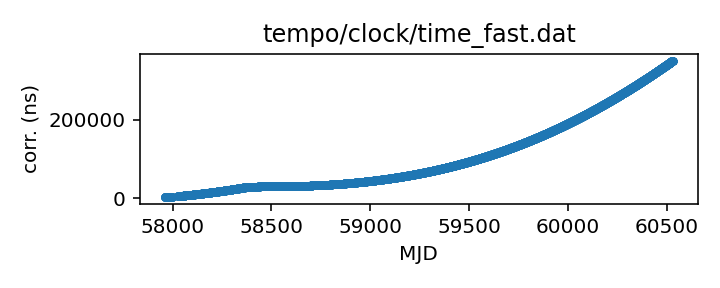
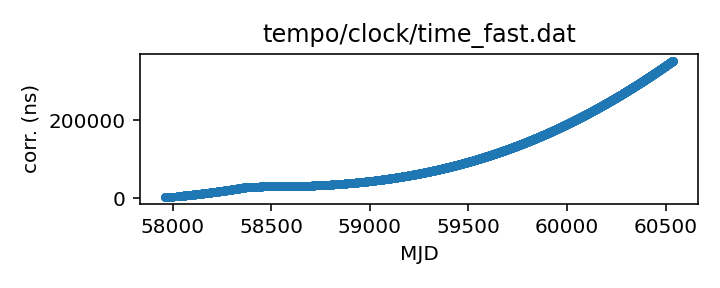
Routine gh-pages update from Github action Fri Aug 16 20:31:29 UTC 2024

diff --git a/status.md b/status.md
@@ -13,18 +13,18 @@ name of each clock file links to a page with more details.
 
 | Name | File | Corrections start | Corrections end | Last check date | Last check result 
 |:--- |:--- | --- | --- | --- |:--- 
-| [GPS to UTC](T2runtime/clock/gps2utc.clk.html) | `T2runtime/clock/gps2utc.clk` | 1993-01-01 MJD 48988.0 | 2024-04-29 MJD 60429.0 | 2024-08-15 | Unchanged 
-| [GPS to UTC (Combined Clock)](T2runtime/clock/gps2utc_cc.clk.html) | `T2runtime/clock/gps2utc_cc.clk` | 1993-01-01 MJD 48988.0 | 2024-04-29 MJD 60429.0 | 2024-08-15 | Unchanged 
-| [GPS to UTC (Corrected)](T2runtime/clock/gps2utc_c0p.clk.html) | `T2runtime/clock/gps2utc_c0p.clk` | 2010-12-29 MJD 55559.0 | 2024-04-29 MJD 60429.0 | 2024-08-15 | Unchanged 
-| [GBT](tempo/clock/time_gbt.dat.html) | `tempo/clock/time_gbt.dat` | 2000-12-31 MJD 51909.5 | 2024-05-18 MJD 60448.5 | 2024-08-15 | **Validation failed** 
+| [GPS to UTC](T2runtime/clock/gps2utc.clk.html) | `T2runtime/clock/gps2utc.clk` | 1993-01-01 MJD 48988.0 | 2024-04-29 MJD 60429.0 | 2024-08-16 | Unchanged 
+| [GPS to UTC (Combined Clock)](T2runtime/clock/gps2utc_cc.clk.html) | `T2runtime/clock/gps2utc_cc.clk` | 1993-01-01 MJD 48988.0 | 2024-04-29 MJD 60429.0 | 2024-08-16 | Unchanged 
+| [GPS to UTC (Corrected)](T2runtime/clock/gps2utc_c0p.clk.html) | `T2runtime/clock/gps2utc_c0p.clk` | 2010-12-29 MJD 55559.0 | 2024-04-29 MJD 60429.0 | 2024-08-16 | Unchanged 
+| [GBT](tempo/clock/time_gbt.dat.html) | `tempo/clock/time_gbt.dat` | 2000-12-31 MJD 51909.5 | 2024-05-18 MJD 60448.5 | 2024-08-16 | **Validation failed** 
 | [GBT (TEMPO2 converted from TEMPO)](T2runtime/clock/gbt2gps.clk.html) | `T2runtime/clock/gbt2gps.clk` | 2000-12-31 MJD 51909.5 | 2024-05-18 MJD 60448.5 | 2024-05-19 | Updated 
-| [Jodrell Bank](T2runtime/clock/jb2gps.clk.html) | `T2runtime/clock/jb2gps.clk` | 2006-10-13 MJD 54021.4 | 2023-12-04 MJD 60282.0 | 2024-08-09 | Unchanged 
-| [Jodrell Bank Roach](T2runtime/clock/jbroach2jb.clk.html) | `T2runtime/clock/jbroach2jb.clk` | 2006-10-13 MJD 54021.4 | 2018-03-20 MJD 58197.6 | 2024-08-09 | Unchanged 
-| [Jodrell Bank DFB](T2runtime/clock/jbdfb2jb.clk.html) | `T2runtime/clock/jbdfb2jb.clk` | 2006-10-13 MJD 54021.4 | 2017-05-11 MJD 57884.0 | 2024-08-09 | Unchanged 
-| [Meerkat (observatory)](T2runtime/clock/mk2utc_observatory.clk.html) | `T2runtime/clock/mk2utc_observatory.clk` | 2019-01-01 MJD 58484.0 | 2024-04-24 MJD 60425.0 | 2024-08-09 | **Failed to download** 
-| [Leap seconds](tempo/clock/leap.sec.html) | `tempo/clock/leap.sec` | 1972-07-01 MJD 41499.0 | 2017-01-01 MJD 57754.0 | 2024-08-15 | Unchanged 
-| [UT1 table](tempo/clock/ut1.dat.html) | `tempo/clock/ut1.dat` | 1973-01-02 MJD 41684.0 | 2025-08-23 MJD 60910.0 | 2024-08-15 | Updated 
-| [UT1 table](T2runtime/clock/ut1.dat.html) | `T2runtime/clock/ut1.dat` | 1973-01-02 MJD 41684.0 | 2025-08-23 MJD 60910.0 | 2024-08-15 | Updated 
+| [Jodrell Bank](T2runtime/clock/jb2gps.clk.html) | `T2runtime/clock/jb2gps.clk` | 2006-10-13 MJD 54021.4 | 2023-12-04 MJD 60282.0 | 2024-08-16 | Unchanged 
+| [Jodrell Bank Roach](T2runtime/clock/jbroach2jb.clk.html) | `T2runtime/clock/jbroach2jb.clk` | 2006-10-13 MJD 54021.4 | 2018-03-20 MJD 58197.6 | 2024-08-16 | Unchanged 
+| [Jodrell Bank DFB](T2runtime/clock/jbdfb2jb.clk.html) | `T2runtime/clock/jbdfb2jb.clk` | 2006-10-13 MJD 54021.4 | 2017-05-11 MJD 57884.0 | 2024-08-16 | Unchanged 
+| [Meerkat (observatory)](T2runtime/clock/mk2utc_observatory.clk.html) | `T2runtime/clock/mk2utc_observatory.clk` | 2019-01-01 MJD 58484.0 | 2024-04-24 MJD 60425.0 | 2024-08-16 | **Failed to download** 
+| [Leap seconds](tempo/clock/leap.sec.html) | `tempo/clock/leap.sec` | 1972-07-01 MJD 41499.0 | 2017-01-01 MJD 57754.0 | 2024-08-16 | Unchanged 
+| [UT1 table](tempo/clock/ut1.dat.html) | `tempo/clock/ut1.dat` | 1973-01-02 MJD 41684.0 | 2025-08-23 MJD 60910.0 | 2024-08-16 | Unchanged 
+| [UT1 table](T2runtime/clock/ut1.dat.html) | `T2runtime/clock/ut1.dat` | 1973-01-02 MJD 41684.0 | 2025-08-23 MJD 60910.0 | 2024-08-16 | Unchanged 
 
 
 
@@ -67,26 +67,26 @@ name of each clock file links to a page with more details.
 
 | Name | File | Corrections start | Corrections end | Last check date | Last check result 
 |:--- |:--- | --- | --- | --- |:--- 
-| [GPS to UTC (TEMPO2)](T2runtime/clock/gps2utc_tempo2.clk.html) | `T2runtime/clock/gps2utc_tempo2.clk` | 1996-03-27 MJD 50169.0 | 2022-10-27 MJD 59879.0 | 2024-08-09 | **Failed to download** 
-| [GBT (TEMPO2)](T2runtime/clock/gbt2gps_tempo2.clk.html) | `T2runtime/clock/gbt2gps_tempo2.clk` | 2000-12-31 MJD 51909.5 | 2020-02-25 MJD 58904.5 | 2024-08-09 | Unchanged 
-| [Jodrell Bank (TEMPO)](tempo/clock/time_jb.dat.html) | `tempo/clock/time_jb.dat` | 2006-10-13 MJD 54021.4 | 2019-05-13 MJD 58616.2 | 2024-08-09 | Unchanged 
-| [VLA](tempo/clock/time_vla.dat.html) | `tempo/clock/time_vla.dat` | 1990-10-27 MJD 48191.2 | 2021-03-07 MJD 59280.5 | 2024-08-09 | Unchanged 
-| [VLA (TEMPO2)](T2runtime/clock/vla2gps.clk.html) | `T2runtime/clock/vla2gps.clk` | 2015-02-01 MJD 57054.6 | 2021-03-07 MJD 59280.5 | 2024-08-09 | Unchanged 
-| [VLA to NIST](T2runtime/clock/vla2nist.clk.html) | `T2runtime/clock/vla2nist.clk` | 1990-10-27 MJD 48191.2 | 1993-11-13 MJD 49304.0 | 2024-08-09 | Unchanged 
-| [FAST](tempo/clock/time_fast.dat.html) | `tempo/clock/time_fast.dat` | 2017-07-27 MJD 57961.0 | 2024-08-07 MJD 60530.0 | 2024-08-09 | Updated 
-| [WSRT](T2runtime/clock/wsrt2gps.clk.html) | `T2runtime/clock/wsrt2gps.clk` | 1999-01-01 MJD 51179.5 | 2015-06-29 MJD 57202.1 | 2024-08-09 | Unchanged 
-| [WSRT (TEMPO)](tempo/clock/time_wsrt.dat.html) | `tempo/clock/time_wsrt.dat` | 1987-07-24 MJD 47000.0 | 2007-12-24 MJD 54458.0 | 2024-08-09 | **Validation failed** 
-| [Parkes](T2runtime/clock/pks2gps.clk.html) | `T2runtime/clock/pks2gps.clk` | 1858-11-17 MJD 0.0 | 2024-07-31 MJD 60522.1 | 2024-08-09 | Updated 
-| [Parkes (TEMPO)](tempo/clock/time_pks.dat.html) | `tempo/clock/time_pks.dat` | 1979-05-07 MJD 44000.0 | 2011-07-03 MJD 55745.8 | 2024-08-09 | **Validation failed** 
-| [SRT](T2runtime/clock/srt2gps.clk.html) | `T2runtime/clock/srt2gps.clk` | 2013-03-20 MJD 56371.0 | 2019-12-11 MJD 58828.0 | 2024-08-09 | Unchanged 
-| [Effelsberg](T2runtime/clock/eff2gps.clk.html) | `T2runtime/clock/eff2gps.clk` | 1993-11-29 MJD 49320.0 | 2015-06-22 MJD 57195.5 | 2024-08-09 | Unchanged 
-| [Effelsberg Asterix/PSRix](T2runtime/clock/effix2gps.clk.html) | `T2runtime/clock/effix2gps.clk` | 2011-01-01 MJD 55562.5 | 2021-03-21 MJD 59294.5 | 2024-08-09 | Unchanged 
-| [LEAP](T2runtime/clock/leap2effix.clk.html) | `T2runtime/clock/leap2effix.clk` | 2012-10-29 MJD 56230.0 | 2014-03-04 MJD 56720.0 | 2024-08-09 | Unchanged 
-| [NUPPI](tempo/clock/time_nuppi.dat.html) | `tempo/clock/time_nuppi.dat` | 2005-03-07 MJD 53436.0 | 2015-11-08 MJD 57334.6 | 2024-08-09 | Unchanged 
-| [Meerkat (TEMPO2)](T2runtime/clock/mk2utc.clk.html) | `T2runtime/clock/mk2utc.clk` | 2019-01-01 MJD 58484.0 | 2023-10-18 MJD 60235.9 | 2024-08-09 | Unchanged 
-| [MOST](T2runtime/clock/mo2gps.clk.html) | `T2runtime/clock/mo2gps.clk` | 2003-12-27 MJD 53000.0 | 2018-09-06 MJD 58367.0 | 2024-08-09 | Unchanged 
-| [Nancay to obspm](T2runtime/clock/ncyobs2obspm.clk.html) | `T2runtime/clock/ncyobs2obspm.clk` | 1988-05-18 MJD 47299.6 | 2023-10-27 MJD 60244.0 | 2024-08-09 | Unchanged 
-| [obspm](T2runtime/clock/obspm2gps.clk.html) | `T2runtime/clock/obspm2gps.clk` | 2003-12-01 MJD 52974.0 | 2023-10-27 MJD 60244.0 | 2024-08-09 | Unchanged 
+| [GPS to UTC (TEMPO2)](T2runtime/clock/gps2utc_tempo2.clk.html) | `T2runtime/clock/gps2utc_tempo2.clk` | 1996-03-27 MJD 50169.0 | 2022-10-27 MJD 59879.0 | 2024-08-16 | **Failed to download** 
+| [GBT (TEMPO2)](T2runtime/clock/gbt2gps_tempo2.clk.html) | `T2runtime/clock/gbt2gps_tempo2.clk` | 2000-12-31 MJD 51909.5 | 2020-02-25 MJD 58904.5 | 2024-08-16 | Unchanged 
+| [Jodrell Bank (TEMPO)](tempo/clock/time_jb.dat.html) | `tempo/clock/time_jb.dat` | 2006-10-13 MJD 54021.4 | 2019-05-13 MJD 58616.2 | 2024-08-16 | Unchanged 
+| [VLA](tempo/clock/time_vla.dat.html) | `tempo/clock/time_vla.dat` | 1990-10-27 MJD 48191.2 | 2021-03-07 MJD 59280.5 | 2024-08-16 | Unchanged 
+| [VLA (TEMPO2)](T2runtime/clock/vla2gps.clk.html) | `T2runtime/clock/vla2gps.clk` | 2015-02-01 MJD 57054.6 | 2021-03-07 MJD 59280.5 | 2024-08-16 | Unchanged 
+| [VLA to NIST](T2runtime/clock/vla2nist.clk.html) | `T2runtime/clock/vla2nist.clk` | 1990-10-27 MJD 48191.2 | 1993-11-13 MJD 49304.0 | 2024-08-16 | Unchanged 
+| [FAST](tempo/clock/time_fast.dat.html) | `tempo/clock/time_fast.dat` | 2017-07-27 MJD 57961.0 | 2024-08-14 MJD 60537.0 | 2024-08-16 | Updated 
+| [WSRT](T2runtime/clock/wsrt2gps.clk.html) | `T2runtime/clock/wsrt2gps.clk` | 1999-01-01 MJD 51179.5 | 2015-06-29 MJD 57202.1 | 2024-08-16 | Unchanged 
+| [WSRT (TEMPO)](tempo/clock/time_wsrt.dat.html) | `tempo/clock/time_wsrt.dat` | 1987-07-24 MJD 47000.0 | 2007-12-24 MJD 54458.0 | 2024-08-16 | **Validation failed** 
+| [Parkes](T2runtime/clock/pks2gps.clk.html) | `T2runtime/clock/pks2gps.clk` | 1858-11-17 MJD 0.0 | 2024-07-31 MJD 60522.1 | 2024-08-16 | Unchanged 
+| [Parkes (TEMPO)](tempo/clock/time_pks.dat.html) | `tempo/clock/time_pks.dat` | 1979-05-07 MJD 44000.0 | 2011-07-03 MJD 55745.8 | 2024-08-16 | **Validation failed** 
+| [SRT](T2runtime/clock/srt2gps.clk.html) | `T2runtime/clock/srt2gps.clk` | 2013-03-20 MJD 56371.0 | 2019-12-11 MJD 58828.0 | 2024-08-16 | Unchanged 
+| [Effelsberg](T2runtime/clock/eff2gps.clk.html) | `T2runtime/clock/eff2gps.clk` | 1993-11-29 MJD 49320.0 | 2015-06-22 MJD 57195.5 | 2024-08-16 | Unchanged 
+| [Effelsberg Asterix/PSRix](T2runtime/clock/effix2gps.clk.html) | `T2runtime/clock/effix2gps.clk` | 2011-01-01 MJD 55562.5 | 2021-03-21 MJD 59294.5 | 2024-08-16 | Unchanged 
+| [LEAP](T2runtime/clock/leap2effix.clk.html) | `T2runtime/clock/leap2effix.clk` | 2012-10-29 MJD 56230.0 | 2014-03-04 MJD 56720.0 | 2024-08-16 | Unchanged 
+| [NUPPI](tempo/clock/time_nuppi.dat.html) | `tempo/clock/time_nuppi.dat` | 2005-03-07 MJD 53436.0 | 2015-11-08 MJD 57334.6 | 2024-08-16 | Unchanged 
+| [Meerkat (TEMPO2)](T2runtime/clock/mk2utc.clk.html) | `T2runtime/clock/mk2utc.clk` | 2019-01-01 MJD 58484.0 | 2023-10-18 MJD 60235.9 | 2024-08-16 | Unchanged 
+| [MOST](T2runtime/clock/mo2gps.clk.html) | `T2runtime/clock/mo2gps.clk` | 2003-12-27 MJD 53000.0 | 2018-09-06 MJD 58367.0 | 2024-08-16 | Unchanged 
+| [Nancay to obspm](T2runtime/clock/ncyobs2obspm.clk.html) | `T2runtime/clock/ncyobs2obspm.clk` | 1988-05-18 MJD 47299.6 | 2023-10-27 MJD 60244.0 | 2024-08-16 | Unchanged 
+| [obspm](T2runtime/clock/obspm2gps.clk.html) | `T2runtime/clock/obspm2gps.clk` | 2003-12-01 MJD 52974.0 | 2023-10-27 MJD 60244.0 | 2024-08-16 | Unchanged 
 
 
 ### Further information:

diff --git a/tempo/clock/time_pks.dat.md b/tempo/clock/time_pks.dat.md
@@ -20,12 +20,11 @@ telescopes in the same file, distinguished only by observatory code.
 | Clock file start | 1979-05-07 MJD 44000.0 |
 | Clock file end | 2011-07-03 MJD 55745.8 |
 | Update interval (days) | 7 |
-| Last update attempt | 2024-08-09 |
+| Last update attempt | 2024-08-16 |
 | Last update result | Validation failed |
 
 Log entries from the last few update attempts:
 ```
-2024-06-07 20:29:32.720 - Validation failed: Unable to read new version of tempo/clock/time_pks.dat: Clock file /tmp/astropy-download-1810-bf_kz8b_ appears to be out of order: 49959.0 > 49958.0
 2024-06-14 20:29:51.890 - Validation failed: Unable to read new version of tempo/clock/time_pks.dat: Clock file /tmp/astropy-download-1801-tisulijr appears to be out of order: 49959.0 > 49958.0
 2024-06-21 20:29:55.211 - Validation failed: Unable to read new version of tempo/clock/time_pks.dat: Clock file /tmp/astropy-download-1818-a0_m0tm6 appears to be out of order: 49959.0 > 49958.0
 2024-06-28 20:29:43.204 - Validation failed: Unable to read new version of tempo/clock/time_pks.dat: Clock file /tmp/astropy-download-1891-89y18t2_ appears to be out of order: 49959.0 > 49958.0
@@ -35,6 +34,7 @@ Log entries from the last few update attempts:
 2024-07-26 20:31:11.561 - Validation failed: Unable to read new version of tempo/clock/time_pks.dat: Clock file /tmp/astropy-download-1771-ynhf0azv appears to be out of order: 49959.0 > 49958.0
 2024-08-02 20:31:15.123 - Validation failed: Unable to read new version of tempo/clock/time_pks.dat: Clock file /tmp/astropy-download-1884-prw9g2tg appears to be out of order: 49959.0 > 49958.0
 2024-08-09 20:31:11.284 - Validation failed: Unable to read new version of tempo/clock/time_pks.dat: Clock file /tmp/astropy-download-1813-swwbjeka appears to be out of order: 49959.0 > 49958.0
+2024-08-16 20:31:04.370 - Validation failed: Unable to read new version of tempo/clock/time_pks.dat: Clock file /tmp/astropy-download-1819-bg24jb3b appears to be out of order: 49959.0 > 49958.0
 ```
 [Full log](https://raw.githubusercontent.com/ipta/pulsar-clock-corrections/main/log/tempo/clock/time_pks.dat.log)
 

diff --git a/tempo/clock/time_wsrt.dat.md b/tempo/clock/time_wsrt.dat.md
@@ -20,12 +20,11 @@ should be the same information.
 | Clock file start | 1987-07-24 MJD 47000.0 |
 | Clock file end | 2007-12-24 MJD 54458.0 |
 | Update interval (days) | 7 |
-| Last update attempt | 2024-08-09 |
+| Last update attempt | 2024-08-16 |
 | Last update result | Validation failed |
 
 Log entries from the last few update attempts:
 ```
-2024-06-07 20:29:27.848 - Validation failed: Unable to read new version of tempo/clock/time_wsrt.dat: Clock file /tmp/astropy-download-1810-vr839f9d appears to be out of order: 53000.05 > 53000.0
 2024-06-14 20:29:48.546 - Validation failed: Unable to read new version of tempo/clock/time_wsrt.dat: Clock file /tmp/astropy-download-1801-gxdcwqox appears to be out of order: 53000.05 > 53000.0
 2024-06-21 20:29:50.513 - Validation failed: Unable to read new version of tempo/clock/time_wsrt.dat: Clock file /tmp/astropy-download-1818-gztup1ud appears to be out of order: 53000.05 > 53000.0
 2024-06-28 20:29:38.470 - Validation failed: Unable to read new version of tempo/clock/time_wsrt.dat: Clock file /tmp/astropy-download-1891-katqx_gz appears to be out of order: 53000.05 > 53000.0
@@ -35,6 +34,7 @@ Log entries from the last few update attempts:
 2024-07-26 20:31:07.591 - Validation failed: Unable to read new version of tempo/clock/time_wsrt.dat: Clock file /tmp/astropy-download-1771-gsrg9qrm appears to be out of order: 53000.05 > 53000.0
 2024-08-02 20:31:12.075 - Validation failed: Unable to read new version of tempo/clock/time_wsrt.dat: Clock file /tmp/astropy-download-1884-lk6lifwj appears to be out of order: 53000.05 > 53000.0
 2024-08-09 20:31:02.876 - Validation failed: Unable to read new version of tempo/clock/time_wsrt.dat: Clock file /tmp/astropy-download-1813-0v7eqv0r appears to be out of order: 53000.05 > 53000.0
+2024-08-16 20:30:59.758 - Validation failed: Unable to read new version of tempo/clock/time_wsrt.dat: Clock file /tmp/astropy-download-1819-rydxnzal appears to be out of order: 53000.05 > 53000.0
 ```
 [Full log](https://raw.githubusercontent.com/ipta/pulsar-clock-corrections/main/log/tempo/clock/time_wsrt.dat.log)
 

diff --git a/tempo/clock/time_gbt.dat.md b/tempo/clock/time_gbt.dat.md
@@ -33,12 +33,11 @@ If questions arise, contact Ryan S. Lynch <rlynch@nrao.edu>.
 | Clock file start | 2000-12-31 MJD 51909.5 |
 | Clock file end | 2024-05-18 MJD 60448.5 |
 | Update interval (days) | 1 |
-| Last update attempt | 2024-08-15 |
+| Last update attempt | 2024-08-16 |
 | Last update result | Validation failed |
 
 Log entries from the last few update attempts:
 ```
-2024-08-06 20:29:25.393 - Validation failed: New version of tempo/clock/time_gbt.dat clock corrections differ from old version where they overlap in 11 places
 2024-08-07 20:30:22.583 - Validation failed: New version of tempo/clock/time_gbt.dat clock corrections differ from old version where they overlap in 11 places
 2024-08-08 20:30:51.414 - Validation failed: New version of tempo/clock/time_gbt.dat clock corrections differ from old version where they overlap in 11 places
 2024-08-09 20:30:59.863 - Validation failed: New version of tempo/clock/time_gbt.dat clock corrections differ from old version where they overlap in 11 places
@@ -48,6 +47,7 @@ Log entries from the last few update attempts:
 2024-08-13 20:30:51.979 - Validation failed: New version of tempo/clock/time_gbt.dat clock corrections differ from old version where they overlap in 11 places
 2024-08-14 20:30:23.923 - Validation failed: New version of tempo/clock/time_gbt.dat clock corrections differ from old version where they overlap in 11 places
 2024-08-15 20:29:52.959 - Validation failed: New version of tempo/clock/time_gbt.dat clock corrections differ from old version where they overlap in 11 places
+2024-08-16 20:30:56.450 - Validation failed: New version of tempo/clock/time_gbt.dat clock corrections differ from old version where they overlap in 11 places
 ```
 [Full log](https://raw.githubusercontent.com/ipta/pulsar-clock-corrections/main/log/tempo/clock/time_gbt.dat.log)
 

diff --git a/T2runtime/clock/gps2utc_tempo2.clk.md b/T2runtime/clock/gps2utc_tempo2.clk.md
@@ -27,12 +27,11 @@ are from the column C0').
 | Clock file start | 1996-03-27 MJD 50169.0 |
 | Clock file end | 2022-10-27 MJD 59879.0 |
 | Update interval (days) | 7 |
-| Last update attempt | 2024-08-09 |
+| Last update attempt | 2024-08-16 |
 | Last update result | Failed to download |
 
 Log entries from the last few update attempts:
 ```
-2024-06-07 20:29:04.633 - Failed to download: HTTP Error 404: Not Found
 2024-06-14 20:29:11.087 - Failed to download: HTTP Error 404: Not Found
 2024-06-21 20:29:27.909 - Failed to download: HTTP Error 404: Not Found
 2024-06-28 20:29:11.138 - Failed to download: HTTP Error 404: Not Found
@@ -42,6 +41,7 @@ Log entries from the last few update attempts:
 2024-07-26 20:30:27.098 - Failed to download: HTTP Error 404: Not Found
 2024-08-02 20:30:33.662 - Failed to download: HTTP Error 404: Not Found
 2024-08-09 20:30:35.633 - Failed to download: HTTP Error 404: Not Found
+2024-08-16 20:30:32.528 - Failed to download: HTTP Error 404: Not Found
 ```
 [Full log](https://raw.githubusercontent.com/ipta/pulsar-clock-corrections/main/log/T2runtime/clock/gps2utc_tempo2.clk.log)
 

diff --git a/T2runtime/clock/mk2utc_observatory.clk.md b/T2runtime/clock/mk2utc_observatory.clk.md
@@ -21,12 +21,11 @@ If questions arise, contact Ryan Shannon <rshannon@swin.edu.au>
 | Clock file start | 2019-01-01 MJD 58484.0 |
 | Clock file end | 2024-04-24 MJD 60425.0 |
 | Update interval (days) | 7 |
-| Last update attempt | 2024-08-09 |
+| Last update attempt | 2024-08-16 |
 | Last update result | Failed to download |
 
 Log entries from the last few update attempts:
 ```
-2024-06-07 20:29:36.289 - Unchanged
 2024-06-14 20:29:57.559 - Unchanged
 2024-06-21 20:29:58.849 - Unchanged
 2024-06-28 20:29:55.029 - Failed to download: <urlopen error _ssl.c:990: The handshake operation timed out>
@@ -36,6 +35,7 @@ Log entries from the last few update attempts:
 2024-07-26 20:31:14.162 - Failed to download: HTTP Error 403: Forbidden
 2024-08-02 20:31:19.452 - Failed to download: HTTP Error 403: Forbidden
 2024-08-09 20:31:14.076 - Failed to download: HTTP Error 403: Forbidden
+2024-08-16 20:31:06.018 - Failed to download: HTTP Error 403: Forbidden
 ```
 [Full log](https://raw.githubusercontent.com/ipta/pulsar-clock-corrections/main/log/T2runtime/clock/mk2utc_observatory.clk.log)
 

diff --git a/tempo/clock/time_fast.dat.md b/tempo/clock/time_fast.dat.md
@@ -14,14 +14,13 @@ This file is pulled from the FAST_ClockFile repository.
 | Format | tempo |
 | Bogus last correction | False |
 | Clock file start | 2017-07-27 MJD 57961.0 |
-| Clock file end | 2024-08-07 MJD 60530.0 |
+| Clock file end | 2024-08-14 MJD 60537.0 |
 | Update interval (days) | 7 |
-| Last update attempt | 2024-08-09 |
+| Last update attempt | 2024-08-16 |
 | Last update result | Updated |
 
 Log entries from the last few update attempts:
 ```
-2024-06-07 20:29:27.480 - Updated
 2024-06-14 20:29:47.904 - Updated
 2024-06-21 20:29:49.947 - Updated
 2024-06-28 20:29:37.764 - Updated
@@ -31,6 +30,7 @@ Log entries from the last few update attempts:
 2024-07-26 20:31:07.124 - Updated
 2024-08-02 20:31:11.541 - Updated
 2024-08-09 20:31:02.403 - Updated
+2024-08-16 20:30:59.399 - Updated
 ```
 [Full log](https://raw.githubusercontent.com/ipta/pulsar-clock-corrections/main/log/tempo/clock/time_fast.dat.log)
 

diff --git a/T2runtime/clock/gps2utc_c0p.clk.md b/T2runtime/clock/gps2utc_c0p.clk.md
@@ -30,12 +30,11 @@ about the BIPM's published corrections, contact <tai@bipm.org>.
 | Clock file start | 2010-12-29 MJD 55559.0 |
 | Clock file end | 2024-04-29 MJD 60429.0 |
 | Update interval (days) | 1 |
-| Last update attempt | 2024-08-15 |
+| Last update attempt | 2024-08-16 |
 | Last update result | Unchanged |
 
 Log entries from the last few update attempts:
 ```
-2024-08-06 20:29:24.894 - Unchanged
 2024-08-07 20:30:22.109 - Unchanged
 2024-08-08 20:30:50.919 - Unchanged
 2024-08-09 20:30:59.405 - Unchanged
@@ -45,6 +44,7 @@ Log entries from the last few update attempts:
 2024-08-13 20:30:51.094 - Unchanged
 2024-08-14 20:30:23.487 - Unchanged
 2024-08-15 20:29:52.538 - Unchanged
+2024-08-16 20:30:56.092 - Unchanged
 ```
 [Full log](https://raw.githubusercontent.com/ipta/pulsar-clock-corrections/main/log/T2runtime/clock/gps2utc_c0p.clk.log)
 

diff --git a/T2runtime/clock/gps2utc_cc.clk.md b/T2runtime/clock/gps2utc_cc.clk.md
@@ -29,12 +29,11 @@ about the BIPM's published corrections, contact <tai@bipm.org>.
 | Clock file start | 1993-01-01 MJD 48988.0 |
 | Clock file end | 2024-04-29 MJD 60429.0 |
 | Update interval (days) | 1 |
-| Last update attempt | 2024-08-15 |
+| Last update attempt | 2024-08-16 |
 | Last update result | Unchanged |
 
 Log entries from the last few update attempts:
 ```
-2024-08-06 20:29:24.883 - Unchanged
 2024-08-07 20:30:22.091 - Unchanged
 2024-08-08 20:30:50.907 - Unchanged
 2024-08-09 20:30:59.393 - Unchanged
@@ -44,6 +43,7 @@ Log entries from the last few update attempts:
 2024-08-13 20:30:51.082 - Unchanged
 2024-08-14 20:30:23.475 - Unchanged
 2024-08-15 20:29:52.526 - Unchanged
+2024-08-16 20:30:56.079 - Unchanged
 ```
 [Full log](https://raw.githubusercontent.com/ipta/pulsar-clock-corrections/main/log/T2runtime/clock/gps2utc_cc.clk.log)
 

diff --git a/T2runtime/clock/gps2utc.clk.md b/T2runtime/clock/gps2utc.clk.md
@@ -32,12 +32,11 @@ about the BIPM's published corrections, contact <tai@bipm.org>.
 | Clock file start | 1993-01-01 MJD 48988.0 |
 | Clock file end | 2024-04-29 MJD 60429.0 |
 | Update interval (days) | 1 |
-| Last update attempt | 2024-08-15 |
+| Last update attempt | 2024-08-16 |
 | Last update result | Unchanged |
 
 Log entries from the last few update attempts:
 ```
-2024-08-06 20:29:24.856 - Unchanged
 2024-08-07 20:30:22.062 - Unchanged
 2024-08-08 20:30:50.880 - Unchanged
 2024-08-09 20:30:59.366 - Unchanged
@@ -47,6 +46,7 @@ Log entries from the last few update attempts:
 2024-08-13 20:30:51.052 - Unchanged
 2024-08-14 20:30:23.445 - Unchanged
 2024-08-15 20:29:52.498 - Unchanged
+2024-08-16 20:30:56.051 - Unchanged
 ```
 [Full log](https://raw.githubusercontent.com/ipta/pulsar-clock-corrections/main/log/T2runtime/clock/gps2utc.clk.log)
 

diff --git a/T2runtime/clock/ut1.dat.md b/T2runtime/clock/ut1.dat.md
@@ -30,12 +30,11 @@ If there are any questions, contact Anne Archibald
 | File start | 1973-01-02 MJD 41684.0 |
 | File end | 2025-08-23 MJD 60910.0 |
 | Update interval (days) | 0 |
-| Last update attempt | 2024-08-15 |
-| Last update result | Updated |
+| Last update attempt | 2024-08-16 |
+| Last update result | Unchanged |
 
 Log entries from the last few update attempts:
 ```
-2024-08-06 20:29:33.652 - Unchanged
 2024-08-07 20:30:30.984 - Unchanged
 2024-08-08 20:31:01.532 - Updated
 2024-08-09 20:31:22.538 - Unchanged
@@ -45,5 +44,6 @@ Log entries from the last few update attempts:
 2024-08-13 20:31:00.182 - Unchanged
 2024-08-14 20:30:33.420 - Unchanged
 2024-08-15 20:30:01.242 - Updated
+2024-08-16 20:31:14.530 - Unchanged
 ```
 [Full log](https://raw.githubusercontent.com/ipta/pulsar-clock-corrections/main/log/T2runtime/clock/ut1.dat.log)

diff --git a/T2runtime/clock/ncyobs2obspm.clk.md b/T2runtime/clock/ncyobs2obspm.clk.md
@@ -22,12 +22,11 @@ thus here) can be expected to be somewhat up to date.
 | Clock file start | 1988-05-18 MJD 47299.6 |
 | Clock file end | 2023-10-27 MJD 60244.0 |
 | Update interval (days) | 7 |
-| Last update attempt | 2024-08-09 |
+| Last update attempt | 2024-08-16 |
 | Last update result | Unchanged |
 
 Log entries from the last few update attempts:
 ```
-2024-06-07 20:29:36.852 - Unchanged
 2024-06-14 20:29:59.398 - Unchanged
 2024-06-21 20:29:59.359 - Unchanged
 2024-06-28 20:29:56.006 - Unchanged
@@ -37,6 +36,7 @@ Log entries from the last few update attempts:
 2024-07-26 20:31:15.223 - Unchanged
 2024-08-02 20:31:21.005 - Unchanged
 2024-08-09 20:31:14.854 - Unchanged
+2024-08-16 20:31:06.808 - Unchanged
 ```
 [Full log](https://raw.githubusercontent.com/ipta/pulsar-clock-corrections/main/log/T2runtime/clock/ncyobs2obspm.clk.log)
 
